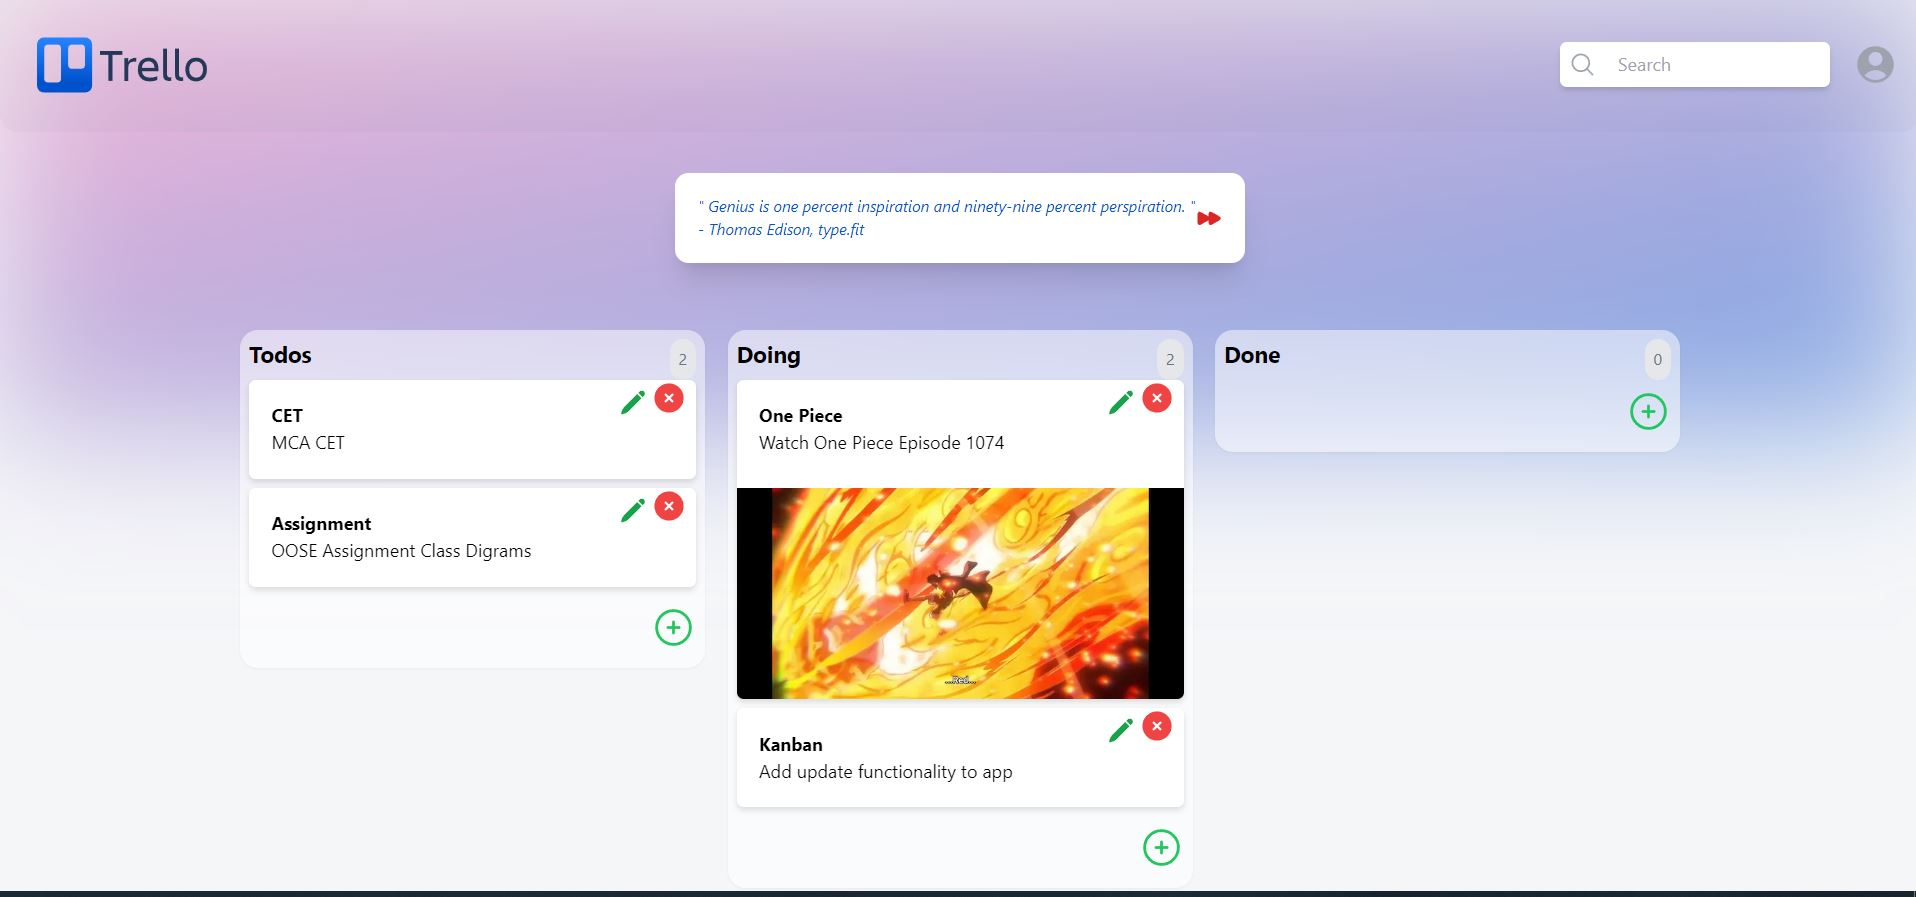
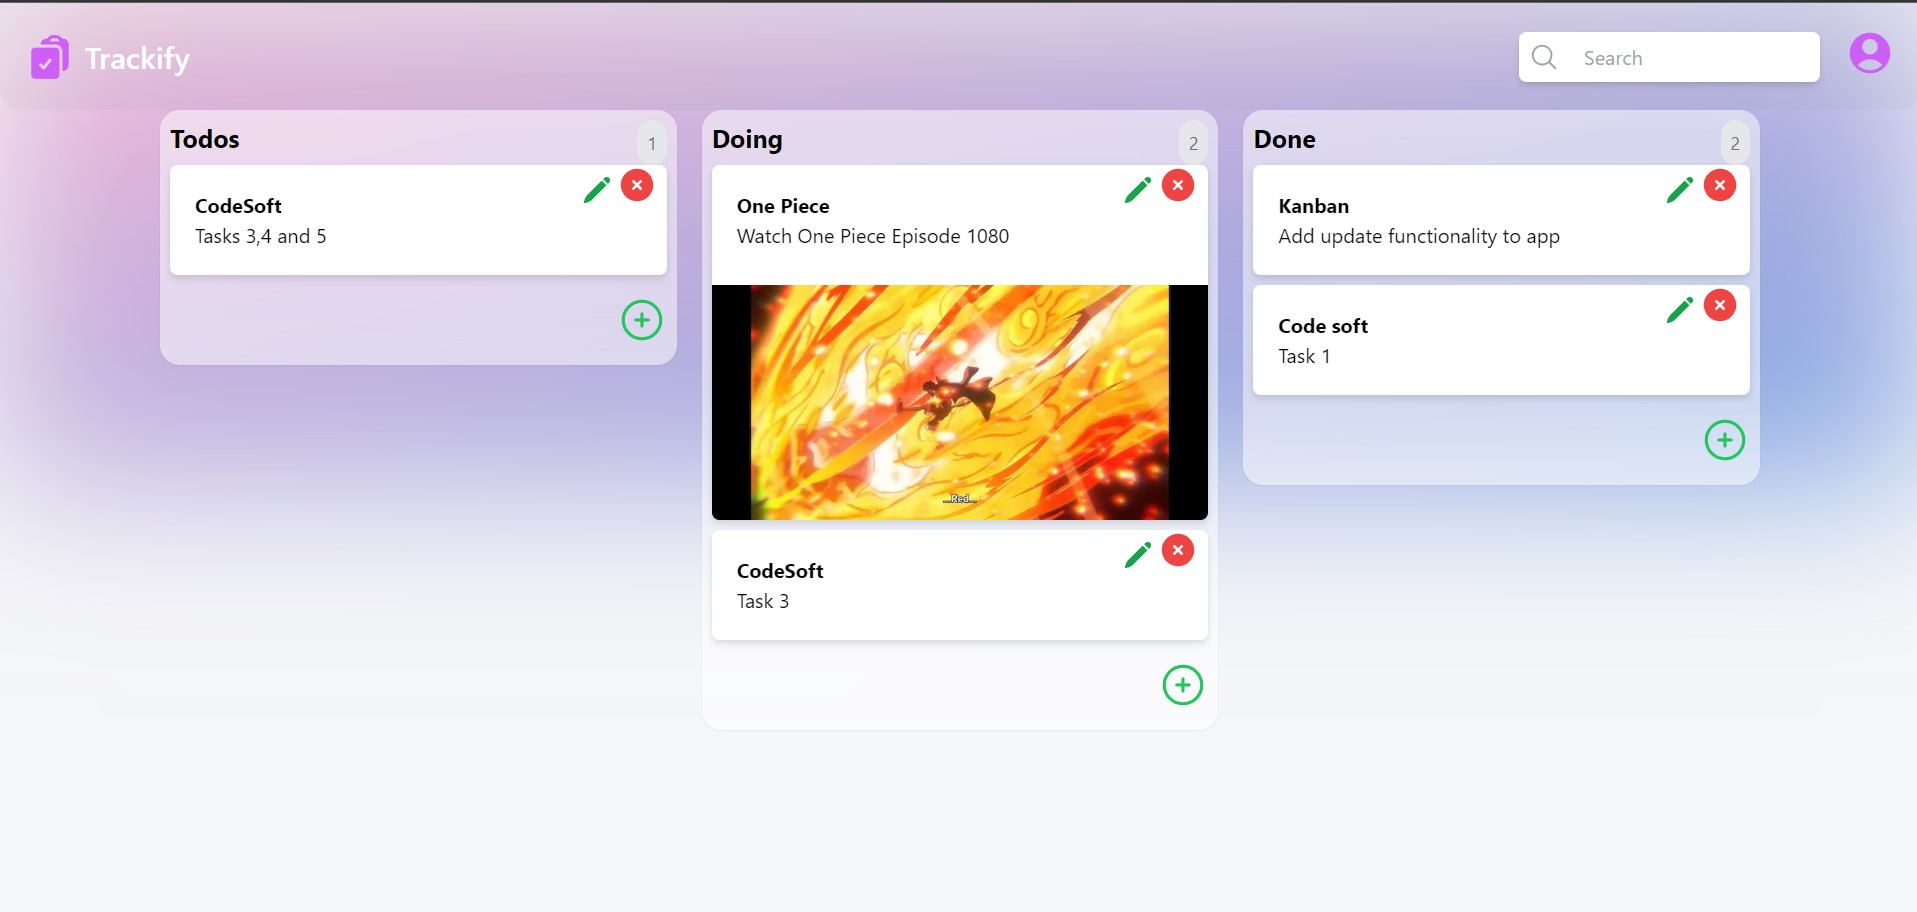
Task2 Trackify Done Basci Requierment

diff --git a/src/components/Header.tsx b/src/components/Header.tsx
@@ -33,7 +33,7 @@ function Navbar() {
       opacity-50
       -z-50"
         />
-        <div className="flex items-center space-x-5 flex-1 justify-center w-full">
+        <div className="flex items-center space-x-5 flex-1 justify-between w-full">
           <div className="flex items-center space-x-2 flex-1 cursor-pointer">
             <ClipboardDocumentCheckIcon className="text-[#cd5ff8] h-18 w-10" />
             <span className="text-xl md:text-2xl font-semibold text-white m-0 p-0">
@@ -67,17 +67,29 @@ function Navbar() {
                   <UserCircleIcon />
                 </Menu.Button>
               </div>
-              <Menu.Items className="origin-top-right absolute right-0 mt-2 w-48 rounded-md shadow-lg bg-white ring-1 ring-black ring-opacity-5 focus:outline-none ">
+              <Menu.Items className="origin-top-right absolute right-0 mt-2 w-48 rounded-md shadow-lg bg-white ring-1 ring-black ring-opacity-5 focus:outline-none z-10 ">
                 <div className="py-1">
                   <Menu.Item>
                     {({ active }) => (
                       <a
-                        href="#profile"
+                        href="https://github.com/Atharva0506/Trackify"
                         className={`${
                           active ? "bg-gray-100 text-gray-900" : "text-gray-700"
                         } block px-4 py-2 text-base`}
                       >
-                        GitHub
+                       Github
+                      </a>
+                    )}
+                  </Menu.Item>
+                  <Menu.Item>
+                    {({ active }) => (
+                      <a
+                        href="https://atharva-naik-portfolio.vercel.app/"
+                        className={`${
+                          active ? "bg-gray-100 text-gray-900" : "text-gray-700"
+                        } block px-4 py-2 text-base`}
+                      >
+                       Contact
                       </a>
                     )}
                   </Menu.Item>

diff --git a/README.md b/README.md
@@ -1,15 +1,15 @@
 
-# Kanban Board Task Management
+# Trackify (Kanban Board Task Management)
 
-![Kanban Board](./public/assets/Kanban.JPG)
+![Trackify](./public/assets/Kanban.JPG)
 
 ## Description
 
-Kanban Board Task Management is a web application built using Next.js for efficient task tracking and management. This Kanban board allows you to organize your tasks into customizable columns, providing a visual representation of your workflow. You can easily move tasks between columns, update their status, and collaborate with your team in a streamlined manner.
+Trackify (Kanban Board Task Management) is a web application built using Next.js for efficient task tracking and management. This Kanban board allows you to organize your tasks into customizable columns, providing a visual representation of your workflow. You can easily move tasks between columns, update their status, and collaborate with your team in a streamlined manner.
 
 ## Access the Application
 
-You can access the live application at [https://kanban-board-task-management-beta.vercel.app/](https://kanban-board-task-management-beta.vercel.app/).
+You can access the live application at [https://trackify-atharva0506.vercel.app/](https://trackify-atharva0506.vercel.app/).
 
 ### Features
 
@@ -52,5 +52,5 @@ To get started with this project, follow these steps:
 1. Clone this repository to your local machine.
 
 ```bash
-git clone https://github.com/Atharva0506/Kanban-Board-Task-Management.git
+git clone https://github.com/Atharva0506/trackify.git
 
